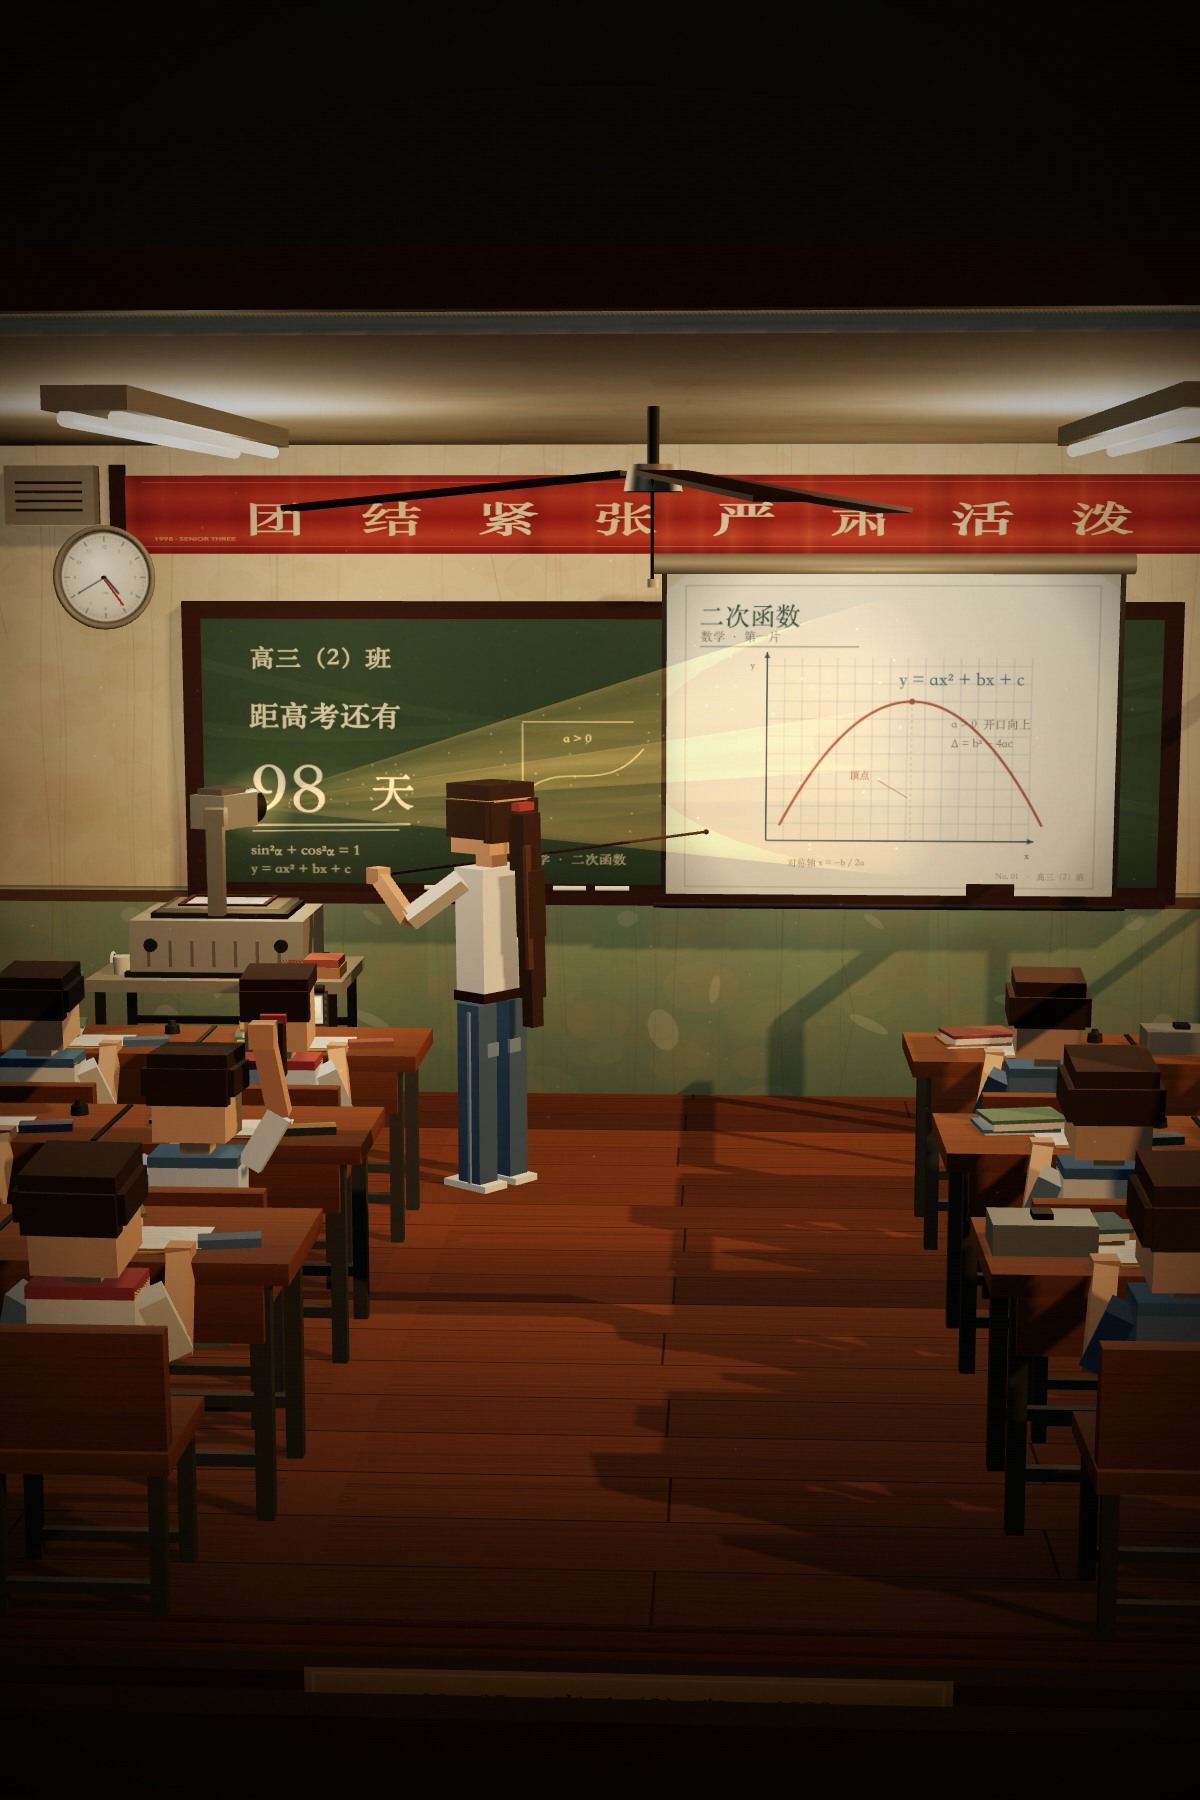
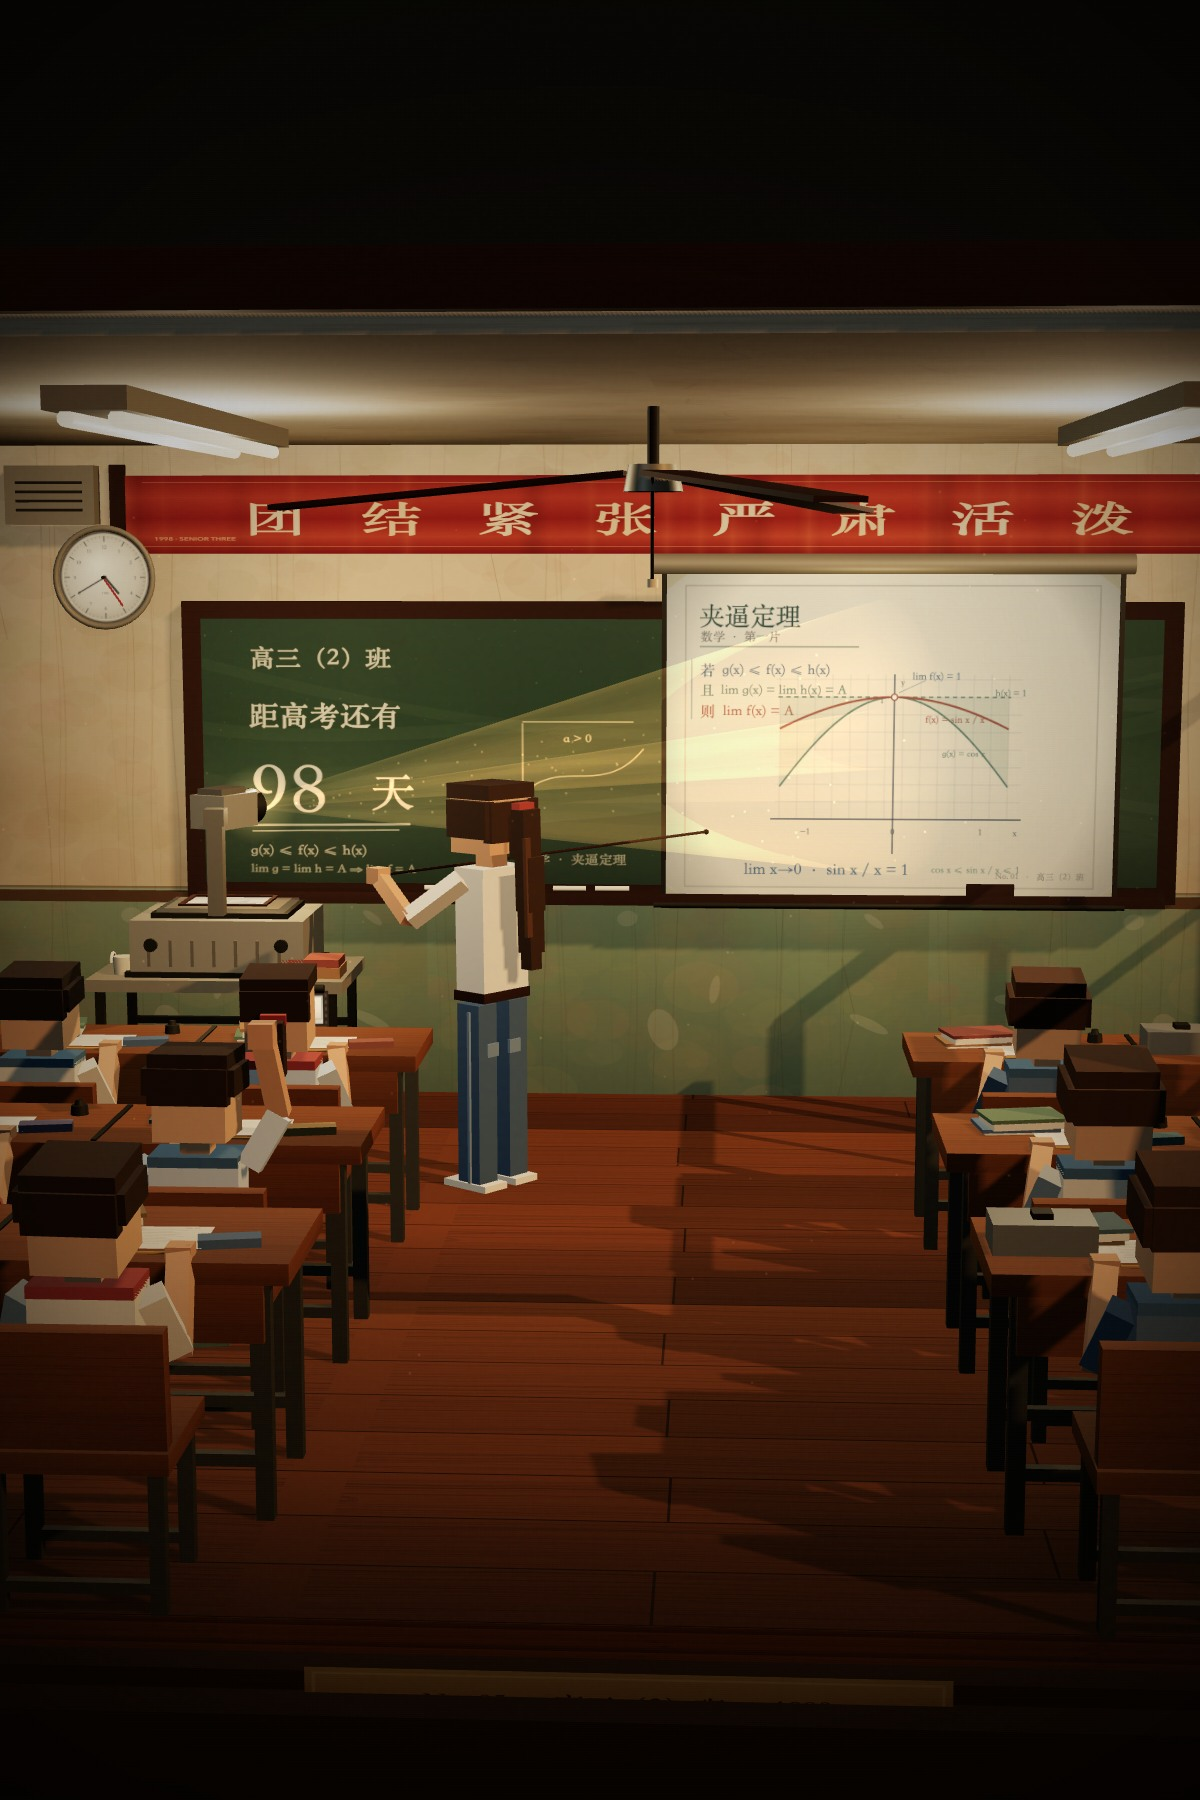
polish: 第 05 号改为夹逼定理并收短教师马尾

diff --git a/classroom-80s/index.html b/classroom-80s/index.html
@@ -302,7 +302,7 @@
       <span><b id="lightText">顶灯 已开</b></span>
     </div>
     <div class="slide-line">
-      <span class="slide-name" id="slideName">数学 · 二次函数</span>
+      <span class="slide-name" id="slideName">数学 · 夹逼定理</span>
       <span class="slide-count" id="slideCount">01 / 04</span>
     </div>
     <div class="slide-meter"><i id="slideFill"></i></div>
@@ -651,8 +651,8 @@ function makeChalkboardTexture(){
   }
   // faint old lesson remnants
   drawChalkText(x, '函数  y = ax² + bx + c', 1240, 150, 64, r, .16);
-  drawChalkText(x, 'sin²α + cos²α = 1', 1240, 300, 46, r, .12);
-  drawChalkText(x, 'y = ax² + bx + c', 1240, 360, 46, r, .12);
+  drawChalkText(x, 'g(x) ≤ f(x) ≤ h(x)', 1240, 300, 46, r, .12);
+  drawChalkText(x, 'lim g = lim h = A', 1240, 360, 46, r, .12);
 
   drawChalkText(x, '高三（2）班', 104, 92, 56, r, .84);
   drawChalkText(x, '距高考还有', 100, 230, 66, r, .9);
@@ -663,9 +663,9 @@ function makeChalkboardTexture(){
   x.beginPath(); x.moveTo(92, 500); x.lineTo(448, 496); x.stroke();
   x.lineWidth = 3;
   x.beginPath(); x.moveTo(104, 514); x.lineTo(424, 510); x.stroke();
-  drawChalkText(x, 'sin²α + cos²α = 1', 100, 560, 35, r, .7);
-  drawChalkText(x, 'y = ax² + bx + c', 100, 606, 33, r, .62);
-  drawChalkText(x, '数学 · 二次函数', 690, 578, 30, r, .55);
+  drawChalkText(x, 'g(x) ≤ f(x) ≤ h(x)', 100, 560, 34, r, .7);
+  drawChalkText(x, 'lim g = lim h = A ⇒ lim f = A', 100, 606, 29, r, .62);
+  drawChalkText(x, '数学 · 夹逼定理', 690, 578, 30, r, .55);
 
   x.strokeStyle = 'rgba(239,239,221,.5)'; x.lineWidth = 3;
   x.beginPath(); x.moveTo(692, 246); x.lineTo(930, 246); x.stroke();
@@ -1029,7 +1029,7 @@ function makeSlideArt(index){
   x.strokeStyle = 'rgba(84,72,52,.34)'; x.lineWidth = 2.2;
   x.strokeRect(44, 38, 936, 690);
 
-  const titles = ['二次函数', '三角函数的图象', '棱锥的体积', '等差数列'];
+  const titles = ['夹逼定理', '三角函数的图象', '棱锥的体积', '等差数列'];
   const subjects = ['数学 · 第一片', '数学 · 第二片', '数学 · 第三片', '数学 · 第四片'];
   x.textAlign = 'left'; x.textBaseline = 'middle';
   x.font = `500 58px ${HAND_FONT}`;
@@ -1048,45 +1048,88 @@ function makeSlideArt(index){
   x.textAlign = 'left';
 
   if (index === 0){
-    // quadratic function
-    const ox = 230, oy = 620, ax = 830, ay = 200;
-    x.strokeStyle = 'rgba(65,76,91,.34)'; x.lineWidth = 1.2;
-    for (let gx = ox; gx <= ax; gx += 40){ x.beginPath(); x.moveTo(gx, ay); x.lineTo(gx, oy); x.stroke(); }
-    for (let gy = oy; gy >= ay; gy -= 40){ x.beginPath(); x.moveTo(ox, gy); x.lineTo(ax, gy); x.stroke(); }
-    x.strokeStyle = 'rgba(48,62,78,.9)'; x.lineWidth = 4;
-    x.beginPath(); x.moveTo(ox, oy); x.lineTo(ax + 12, oy); x.stroke();
-    x.beginPath(); x.moveTo(ox, oy); x.lineTo(ox, ay - 12); x.stroke();
-    x.beginPath(); x.moveTo(ax + 12, oy); x.lineTo(ax - 3, oy - 7); x.lineTo(ax - 3, oy + 7); x.closePath(); x.fillStyle = 'rgba(48,62,78,.9)'; x.fill();
-    x.beginPath(); x.moveTo(ox, ay - 12); x.lineTo(ox - 7, ay + 2); x.lineTo(ox + 7, ay + 2); x.closePath(); x.fill();
-    x.fillStyle = 'rgba(48,62,78,.8)'; x.font = `400 24px ${HAND_FONT}`;
-    x.fillText('x', ax - 8, oy + 32); x.fillText('y', ox - 38, ay + 18);
-    x.strokeStyle = 'rgba(170,70,52,.9)'; x.lineWidth = 6;
+    // squeeze theorem
+    x.fillStyle = 'rgba(66,100,128,.92)'; x.font = `400 33px ${HAND_FONT}`;
+    x.fillText('若  g(x) ≤ f(x) ≤ h(x)', 78, 228);
+    x.fillStyle = 'rgba(84,122,102,.9)'; x.font = `400 31px ${HAND_FONT}`;
+    x.fillText('且  lim g(x) = lim h(x) = A', 78, 274);
+    x.fillStyle = 'rgba(165,77,57,.92)'; x.font = `400 34px ${HAND_FONT}`;
+    x.fillText('则  lim f(x) = A', 78, 322);
+    x.strokeStyle = 'rgba(66,100,128,.3)'; x.lineWidth = 4;
+    x.beginPath(); x.moveTo(58, 204); x.lineTo(58, 342); x.stroke();
+
+    const cx = 520, cy = 570, sx = 200, sy = 280;
+    // soft grid
+    x.strokeStyle = 'rgba(65,76,91,.2)'; x.lineWidth = 1;
+    for (let gx = 260; gx <= 800; gx += 40){ x.beginPath(); x.moveTo(gx, 238); x.lineTo(gx, cy); x.stroke(); }
+    for (let gy = 250; gy < cy; gy += 40){ x.beginPath(); x.moveTo(250, gy); x.lineTo(810, gy); x.stroke(); }
+    x.strokeStyle = 'rgba(48,62,78,.86)'; x.lineWidth = 3;
+    x.beginPath(); x.moveTo(240, cy); x.lineTo(812, cy); x.stroke();
+    x.beginPath(); x.moveTo(cx, 238); x.lineTo(cx, 650); x.stroke();
+    x.fillStyle = 'rgba(48,62,78,.75)'; x.font = `400 21px ${HAND_FONT}`;
+    x.fillText('x', 794, cy + 30); x.fillText('y', cx + 14, 256);
+    x.textAlign = 'center';
+    x.fillText('−1', cx - sx, cy + 28); x.fillText('0', cx, cy + 28); x.fillText('1', cx + sx, cy + 28);
+    x.fillText('1', cx - 28, cy - sy + 7);
+    x.textAlign = 'left';
+
+    // shaded squeezed band
     x.beginPath();
-    for (let i = 0; i <= 120; i++){
-      const t = i / 60 - 1;
-      const px = 560 + t * 300;
-      const py = 300 + t * t * 285;
+    x.moveTo(cx - 1.3 * sx, cy - sy);
+    x.lineTo(cx + 1.3 * sx, cy - sy);
+    for (let i = 60; i >= 0; i--){
+      const t = -1.3 + 2.6 * i / 60;
+      x.lineTo(cx + t * sx, cy - Math.cos(t) * sy);
+    }
+    x.closePath();
+    x.fillStyle = 'rgba(96,132,102,.12)'; x.fill();
+
+    // h(x)=1
+    x.setLineDash([10, 8]); x.strokeStyle = 'rgba(84,122,102,.9)'; x.lineWidth = 3;
+    x.beginPath(); x.moveTo(cx - 1.32 * sx, cy - sy); x.lineTo(cx + 1.32 * sx, cy - sy); x.stroke();
+    x.setLineDash([]);
+    x.fillStyle = 'rgba(84,122,102,.9)'; x.font = `400 22px ${HAND_FONT}`;
+    x.fillText('h(x) = 1', cx + 1.1 * sx + 8, cy - sy - 10);
+
+    // g(x)=cos x
+    x.strokeStyle = 'rgba(84,122,102,.9)'; x.lineWidth = 4;
+    x.beginPath();
+    for (let i = 0; i <= 110; i++){
+      const t = -1.3 + 2.6 * i / 110;
+      const px = cx + t * sx, py = cy - Math.cos(t) * sy;
       i ? x.lineTo(px, py) : x.moveTo(px, py);
     }
     x.stroke();
-    x.strokeStyle = 'rgba(170,70,52,.35)'; x.lineWidth = 2;
-    x.setLineDash([7, 7]);
-    x.beginPath(); x.moveTo(560, 300); x.lineTo(560, oy); x.stroke();
-    x.setLineDash([]);
-    x.fillStyle = '#a54d39'; x.beginPath(); x.arc(560, 300, 7, 0, TAU); x.fill();
-    x.fillStyle = 'rgba(66,100,128,.92)'; x.font = `400 43px ${HAND_FONT}`;
-    x.fillText('y = ax² + bx + c', 530, 250);
-    x.font = `400 27px ${HAND_FONT}`;
-    x.fillStyle = 'rgba(97,84,61,.72)';
-    x.fillText('a > 0  开口向上', 650, 350);
-    x.fillText('Δ = b² − 4ac', 650, 394);
-    x.strokeStyle = 'rgba(170,70,52,.7)'; x.lineWidth = 2;
-    x.beginPath(); x.moveTo(552, 520); x.lineTo(485, 480); x.stroke();
-    x.fillStyle = 'rgba(170,70,52,.8)'; x.font = `400 23px ${HAND_FONT}`;
-    x.fillText('顶点', 420, 468);
-    x.fillStyle = 'rgba(88,78,58,.6)'; x.font = `400 22px ${HAND_FONT}`;
-    x.fillText('对称轴 x = −b / 2a', 280, 670);
-  } else if (index === 1){
+    x.fillStyle = 'rgba(84,122,102,.86)'; x.font = `400 21px ${HAND_FONT}`;
+    x.fillText('g(x) = cos x', cx + .55 * sx, cy - .54 * sy);
+
+    // f(x)=sin x / x, with a hole at 0
+    x.strokeStyle = 'rgba(165,77,57,.95)'; x.lineWidth = 5;
+    for (const [a, b] of [[-1.3, -.055], [.055, 1.3]]){
+      x.beginPath();
+      for (let i = 0; i <= 90; i++){
+        const t = a + (b - a) * i / 90;
+        const px = cx + t * sx, py = cy - (Math.sin(t) / t) * sy;
+        i ? x.lineTo(px, py) : x.moveTo(px, py);
+      }
+      x.stroke();
+    }
+    x.beginPath(); x.arc(cx, cy - sy, 7, 0, TAU); x.fillStyle = 'rgba(255,250,236,.95)'; x.fill();
+    x.strokeStyle = 'rgba(165,77,57,1)'; x.lineWidth = 3; x.stroke();
+    x.fillStyle = 'rgba(165,77,57,.92)'; x.font = `400 23px ${HAND_FONT}`;
+    x.fillText('f(x) = sin x / x', cx + .35 * sx, cy - .82 * sy);
+
+    // limit arrow and example
+    x.fillStyle = 'rgba(66,100,128,.9)'; x.font = `400 24px ${HAND_FONT}`;
+    x.fillText('lim f(x) = 1', cx + .2 * sx, cy - sy - 48);
+    x.strokeStyle = 'rgba(66,100,128,.55)'; x.lineWidth = 1.5;
+    x.beginPath(); x.moveTo(cx + .35 * sx, cy - sy - 38); x.lineTo(cx + .05 * sx, cy - sy - 10); x.stroke();
+
+    x.fillStyle = 'rgba(66,100,128,.94)'; x.font = `400 38px ${HAND_FONT}`;
+    x.fillText('lim x→0 · sin x / x = 1', 180, 686);
+    x.fillStyle = 'rgba(84,122,102,.7)'; x.font = `400 23px ${HAND_FONT}`;
+    x.fillText('cos x ≤ sin x / x ≤ 1', 610, 686);
+  } else if (index === 1){  } else if (index === 1){
     // trigonometric functions
     const cx = 272, cy = 500, R = 158;
     x.strokeStyle = 'rgba(65,76,91,.58)'; x.lineWidth = 2;
@@ -1227,7 +1270,7 @@ function makeFilmStripTexture(slideCanvases){
     x.fillStyle = 'rgba(67,47,27,.9)';
     x.font = '500 12px "Avenir Next",sans-serif';
     x.textAlign = 'center';
-    x.fillText(['QUADRATIC', 'TRIGONOMETRY', 'PYRAMID', 'SEQUENCE'][i], 128, y + 158);
+    x.fillText(['SQUEEZE', 'TRIGONOMETRY', 'PYRAMID', 'SEQUENCE'][i], 128, y + 158);
   }
   // sprocket holes
   x.fillStyle = 'rgba(245,237,216,.16)';
@@ -2210,11 +2253,11 @@ const teacherPonytail = new THREE.Group();
 teacherPonytail.position.set(.025, .19, .145);
 teacherHeadPivot.add(teacherPonytail);
 bBlock(.082, .032, .082, ribbonMat, 0, 0, 0, teacherPonytail, false, false);
-bBlock(.095, .23, .085, teacherHairMat, 0, -.14, .025, teacherPonytail);
-bBlock(.09, .27, .078, teacherHairMat, .006, -.39, .042, teacherPonytail);
-bBlock(.08, .25, .072, teacherHairMat, .012, -.65, .035, teacherPonytail);
-bBlock(.06, .13, .06, teacherHairMat, .018, -.83, .026, teacherPonytail);
-bBlock(.028, .5, .018, teacherHairLight, -.035, -.4, .07, teacherPonytail, false, false);
+bBlock(.095, .2, .085, teacherHairMat, 0, -.11, .025, teacherPonytail);
+bBlock(.09, .22, .078, teacherHairMat, .006, -.31, .042, teacherPonytail);
+bBlock(.078, .18, .072, teacherHairMat, .012, -.5, .035, teacherPonytail);
+bBlock(.058, .08, .06, teacherHairMat, .018, -.62, .026, teacherPonytail);
+bBlock(.028, .4, .018, teacherHairLight, -.035, -.32, .07, teacherPonytail, false, false);
 // right arm resting
 bLimb(new THREE.Vector3(.17, 1.33, 0), new THREE.Vector3(.22, 1.13, -.03), .07, teacherShirtMat, teacher);
 bLimb(new THREE.Vector3(.22, 1.13, -.03), new THREE.Vector3(.21, .97, -.06), .058, M.skinSoft, teacher);
@@ -2302,7 +2345,7 @@ room.add(dust);
 // -------------------------------------------------------------------------
 
 const SLIDES = [
-  { name: '数学 · 二次函数', short: '二次函数' },
+  { name: '数学 · 夹逼定理', short: '夹逼定理' },
   { name: '数学 · 三角函数的图象', short: '三角函数的图象' },
   { name: '数学 · 棱锥的体积', short: '棱锥的体积' },
   { name: '数学 · 等差数列', short: '等差数列' }

diff --git a/index.html b/index.html
@@ -911,7 +911,7 @@
        data-no="05" data-title="幻灯年代" data-en="The Slide Years"
        data-note="手工数学灯片、木质双人课桌，和一束穿过粉笔灰的投影光。"
        data-accent="#d8ab6e" aria-label="进入《幻灯年代》">
-      <span class="card-media"><img src="classroom-80s/poster.jpg" draggable="false" alt="1998 年高中数学课堂，老师用幻灯机投影手工绘制的二次函数灯片，木质双人课桌旁坐着方块小人" width="1200" height="1800" /></span>
+      <span class="card-media"><img src="classroom-80s/poster.jpg" draggable="false" alt="1998 年高中数学课堂，老师用幻灯机投影手工绘制的夹逼定理灯片，木质双人课桌旁坐着方块小人" width="1200" height="1800" /></span>
       <span class="card-frame" aria-hidden="true"></span>
       <span class="card-top">
         <span class="card-meta"><span class="card-no">No. 05</span><span class="card-phase">高三 · 1998 夏 16:40</span></span>
